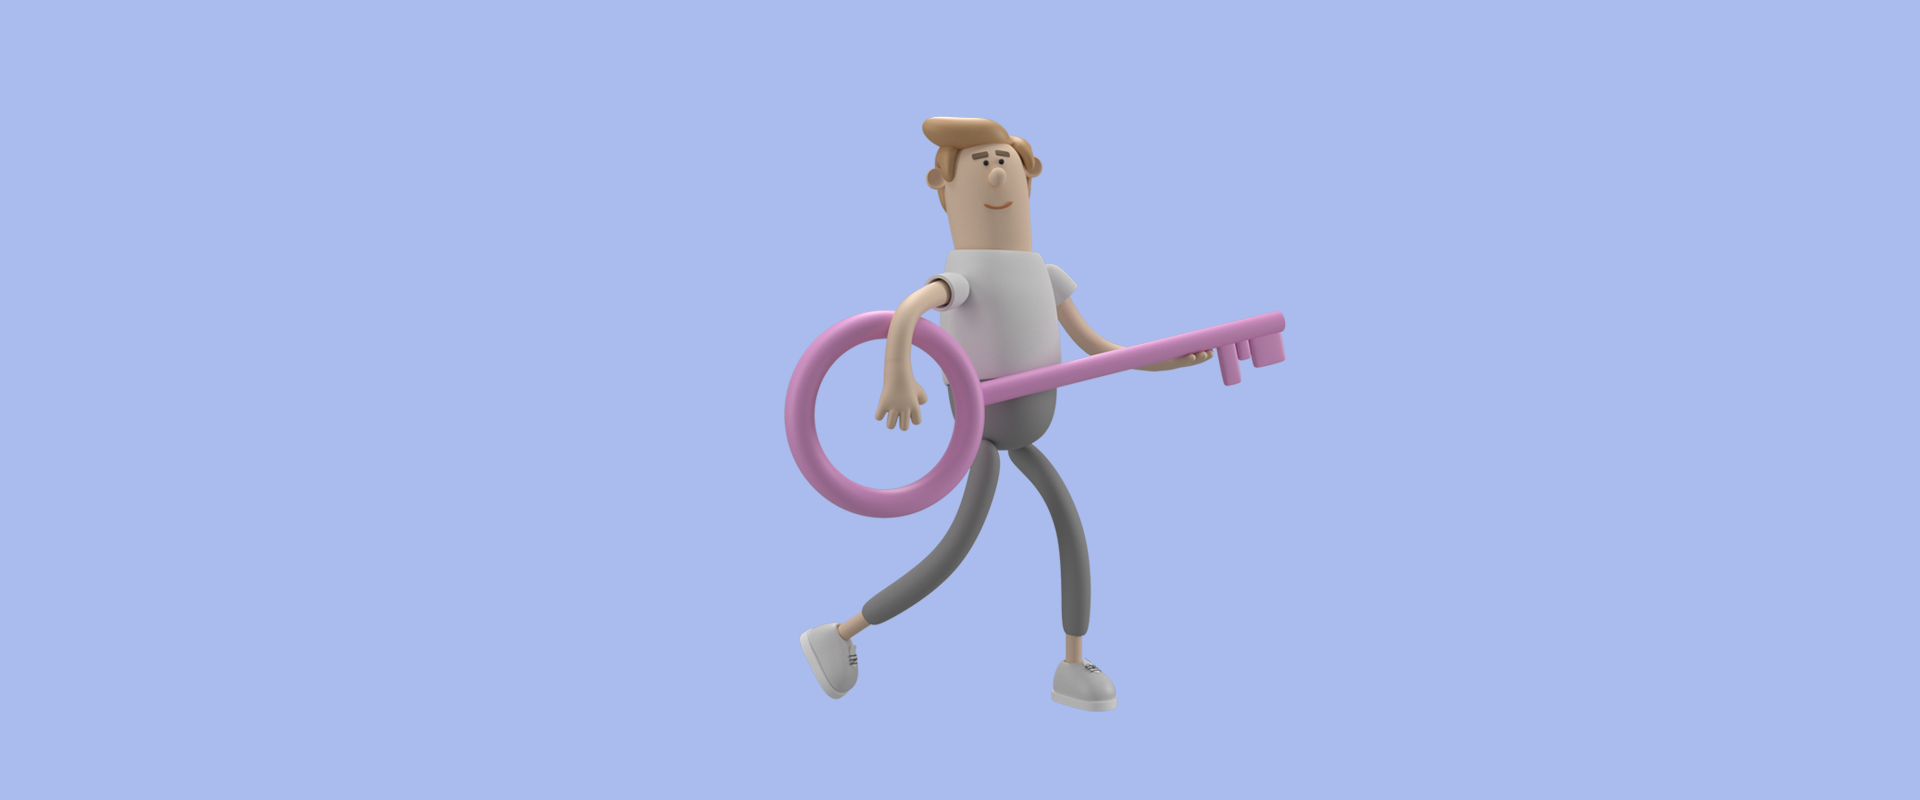
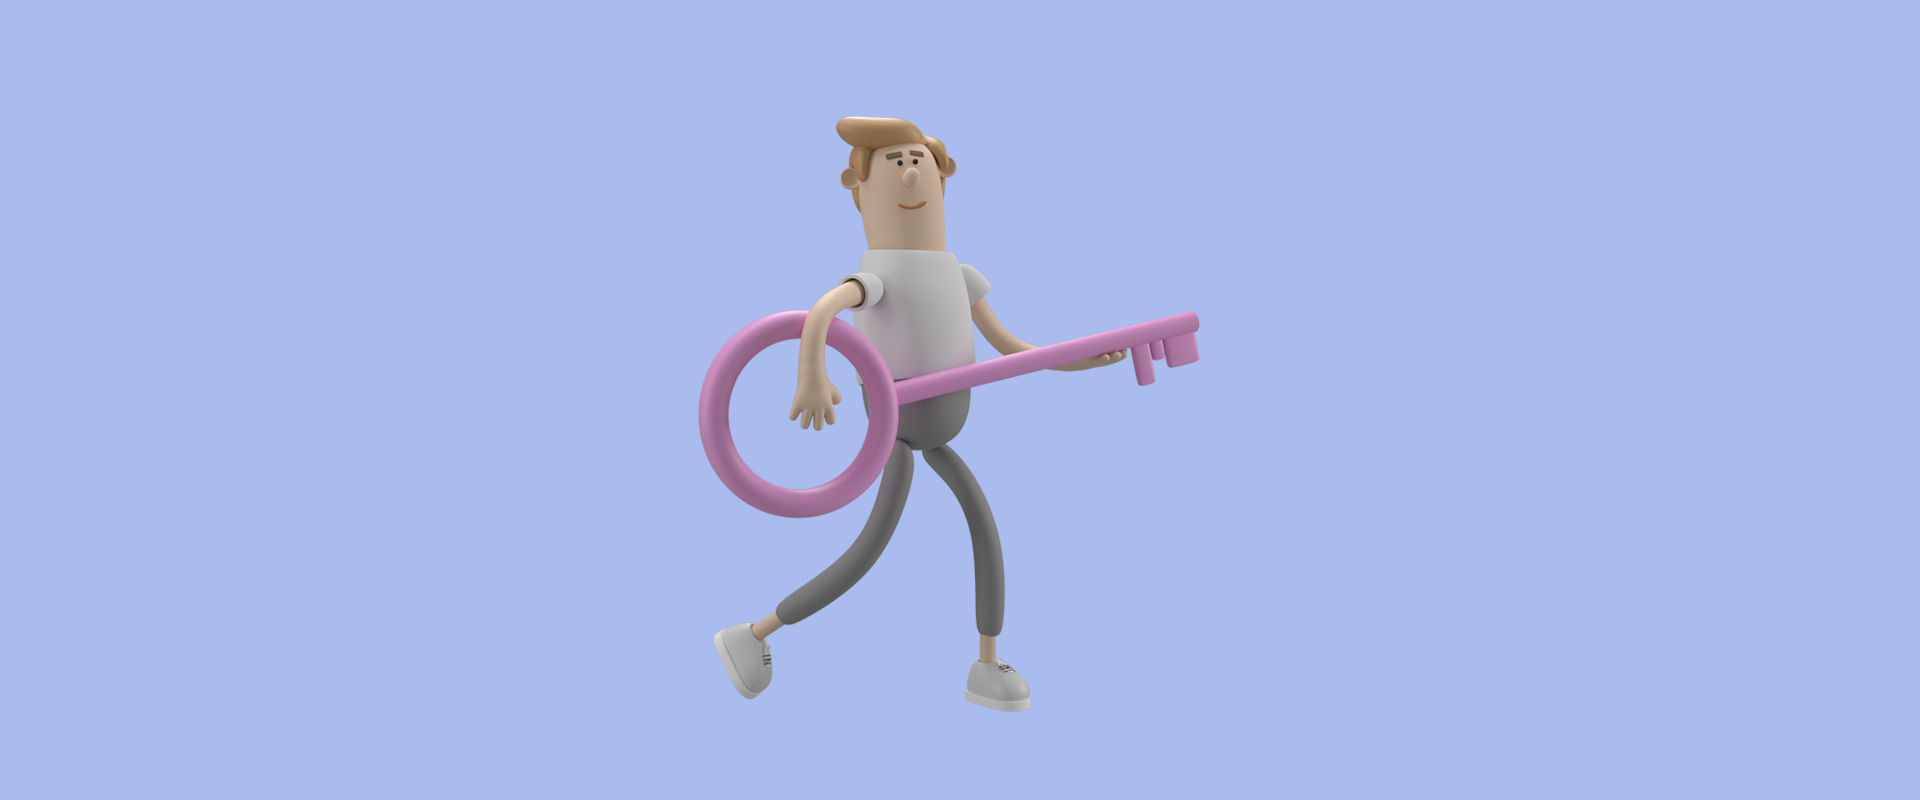
Register Hero image added

Changed region(s): [[0.3438, 0.125, 0.6875, 0.9062]]

diff --git a/src/components/Login.jsx b/src/components/Login.jsx
@@ -53,33 +53,24 @@ export const Login = () => {
                 >
                   Come on in! <br />
                   <span style={{ color: "hsl(218, 81%, 75%)" }}>
-                    we have exclusive discounts and memes that will make you
-                    LOL!
+                    It's time to register participants like a boss and unleash
+                    your inner registration superhero!
                   </span>
                 </h1>
-                <p
-                  className="mb-4 opacity-70"
-                  style={{ color: "hsl(218, 81%, 85%)" }}
-                >
-                  Lorem ipsum dolor, sit amet consectetur adipisicing elit.
-                  Temporibus, expedita iusto veniam atque, magni tempora
-                  mollitia dolorum consequatur nulla, neque debitis eos
-                  reprehenderit quasi ab ipsum nisi dolorem modi. Quos?
-                </p>
               </div>
 
-              <div className="col-lg-6 mb-5 mb-lg-0 position-relative">
+              <div className="col-lg-6 mb-5 mb-lg-0 position-relative ">
                 <div
                   id="radius-shape-1"
-                  className="position-absolute rounded-circle shadow-5-strong"
+                  className="position-absolute rounded-circle shadow-5-strong "
                 ></div>
                 <div
                   id="radius-shape-2"
-                  className="position-absolute shadow-5-strong"
+                  className="position-absolute shadow-5-strong "
                 ></div>
 
-                <div className="card bg-glass opacity-90">
-                  <div className="card-body px-4 py-5 px-md-5">
+                <div className="card bg-glass opacity-80">
+                  <div className="card-body px-4 py-5 px-md-5  ">
                     <form onSubmit={handleOnSubmit}>
                       <MDBRow className="mb-4"></MDBRow>
 
@@ -105,6 +96,7 @@ export const Login = () => {
                         type="submit"
                         block
                         className="mb-4"
+                        color="dark"
                       >
                         Sign in
                       </MDBBtn>

diff --git a/src/components/Register.jsx b/src/components/Register.jsx
@@ -1,6 +1,7 @@
 import { useState } from "react";
 import { useNavigate, Link } from "react-router-dom";
 import axios from "axios";
+import { StyledRegisterHero } from "../styles/StyledRegister";
 import {
   MDBContainer,
   MDBRow,
@@ -34,16 +35,10 @@ export const Register = () => {
     });
   };
 
+  const RegisterHero = require("../assets/register_hero.png");
+
   return (
     <>
-      <div
-        className="p-5 text-center bg-image"
-        style={{
-          backgroundImage:
-            "url('https://mdbootstrap.com/img/new/slides/041.webp')",
-          height: 800,
-        }}
-      ></div>
       <MDBContainer style={{ position: "absolute" }} fluid className="mt-5">
         <section className="background-radial-gradient overflow-hidden ">
           <div className="container px-4 py-5 px-md-5 text-center text-lg-start my-5">
@@ -58,15 +53,6 @@ export const Register = () => {
                     we have cookies and sweet deals!
                   </span>
                 </h1>
-                <p
-                  className="mb-4 opacity-70"
-                  style={{ color: "hsl(218, 81%, 85%)" }}
-                >
-                  Lorem ipsum dolor, sit amet consectetur adipisicing elit.
-                  Temporibus, expedita iusto veniam atque, magni tempora
-                  mollitia dolorum consequatur nulla, neque debitis eos
-                  reprehenderit quasi ab ipsum nisi dolorem modi. Quos?
-                </p>
               </div>
 
               <div className="col-lg-6 mb-5 mb-lg-0 position-relative">
@@ -125,6 +111,7 @@ export const Register = () => {
                         type="submit"
                         block
                         className="mb-4"
+                        color="dark"
                       >
                         Sign up
                       </MDBBtn>
@@ -144,6 +131,10 @@ export const Register = () => {
           </div>
         </section>
       </MDBContainer>
+
+      <div>
+        <StyledRegisterHero src={RegisterHero} />
+      </div>
     </>
   );
 };

diff --git a/src/components/ClientRegister.jsx b/src/components/ClientRegister.jsx
@@ -46,29 +46,24 @@ export const ClientRegister = () => {
               <MDBRow className="justify-content-center">
                 <MDBCol lg="8">
                   <div className="text-center">
-                    <MDBIcon
-                      fas
-                      icon="user-plus"
-                      size="3x"
-                      style={{ marginTop: "30px" }}
-                    />
                     <hr />
                     <MDBRow>
                       <h1
-                        className="my-3 display-3 fw-bold ls-tight"
+                        className="my-3 display-4 fw-bold ls-tight"
                         style={{
                           color: "black",
                         }}
                       >
-                        Come on in! <br />
+                        Hey Registrahero! <br />
                         <span
                           style={{
                             color:
                               "hsl(210, 1.9999999999999931%, 80.3921568627451%)",
                           }}
                         >
-                          we have exclusive discounts and memes that will make
-                          you LOL!
+                          Welcome to the land of 'Registra-topia', where
+                          participant registration reigns supreme and chaos is
+                          our middle name.
                         </span>
                       </h1>
                     </MDBRow>

diff --git a/src/components/ParticipantList.jsx b/src/components/ParticipantList.jsx
@@ -77,18 +77,6 @@ export const ParticipantList = () => {
                         <div className="d-flex justify-content-between align-items-center mb-4">
                           <div>
                             <p className="mb-1">Event participants list</p>
-                            <p className="mb-0">
-                              There are ... participants in the list
-                            </p>
-                          </div>
-                          <div>
-                            <p>
-                              <span className="text-muted">Sort by:</span>
-                              <a href="#!" className="text-body">
-                                name
-                                <MDBIcon fas icon="angle-down mt-1" />
-                              </a>
-                            </p>
                           </div>
                         </div>{" "}
                         {registeredParticipants.map((participant) => (

diff --git a/src/styles/StyledRegister.js b/src/styles/StyledRegister.js
@@ -1,0 +1,8 @@
+import styled from "styled-components";
+
+export const StyledRegisterHero = styled.img`
+  width: 100%;
+  height: 100%;
+  background-image: url(.../assets/register_hero.png);
+  background-size: cover;
+`;
